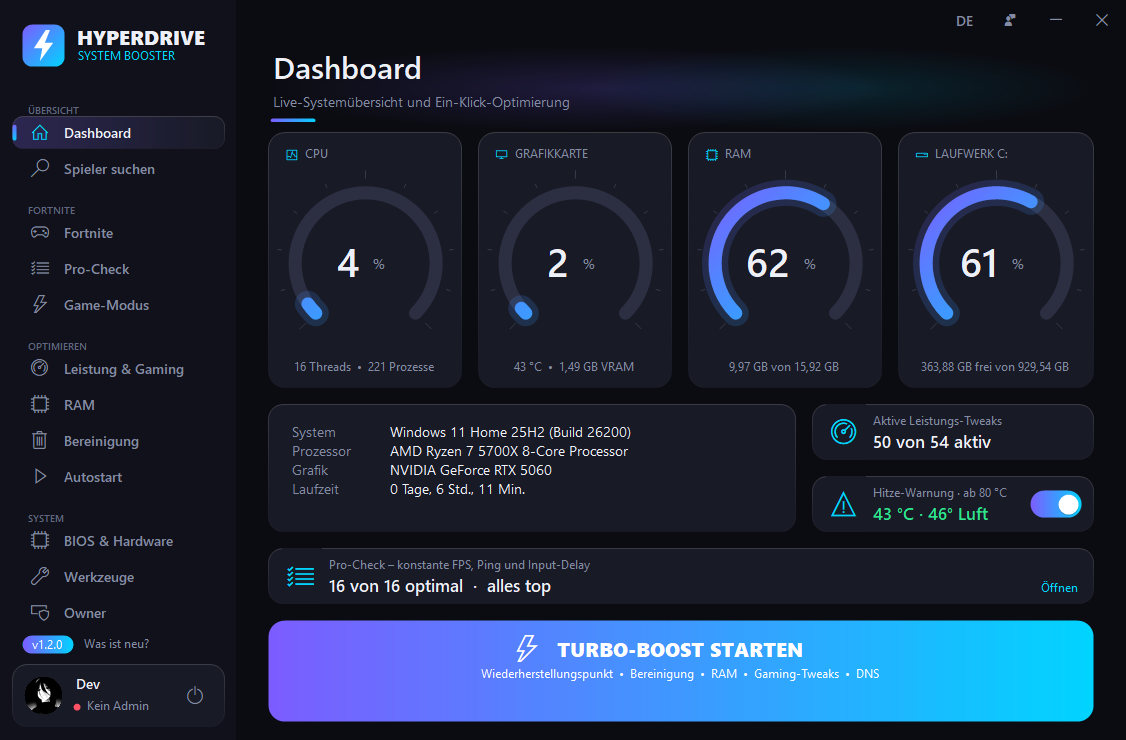
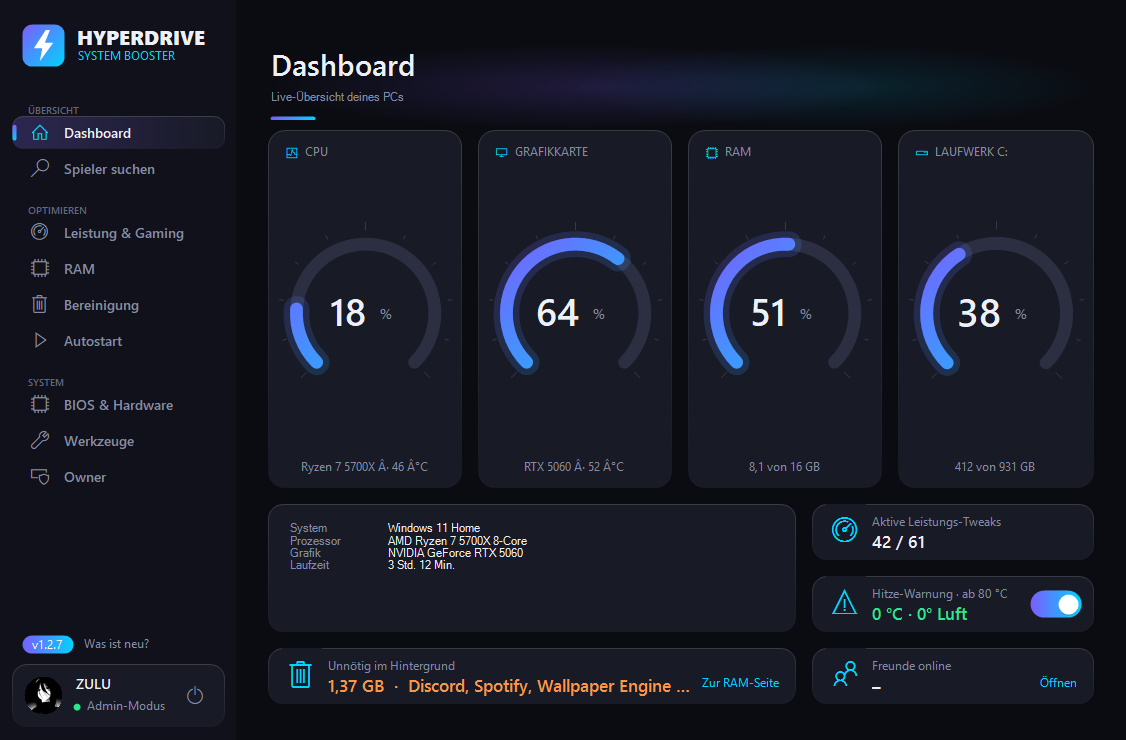
Website: für alle Spiele, neue Funktionen (RAM, Freunde, Profile), neue Screenshots, kompletter Update-Verlauf

diff --git a/index.html b/index.html
@@ -3,8 +3,8 @@
 <head>
 <meta charset="utf-8">
 <meta name="viewport" content="width=device-width, initial-scale=1">
-<title>HyperDrive – Free Fortnite FPS Boost &amp; PC Optimizer for Windows</title>
-<meta name="description" content="HyperDrive is a free Fortnite optimizer for Windows 10 and 11: more FPS, less input delay, stable ping and a faster PC in one click. Kostenloser Fortnite FPS-Boost.">
+<title>HyperDrive – Free PC Optimizer for Gaming on Windows</title>
+<meta name="description" content="HyperDrive is a free PC optimizer for gaming on Windows 10 and 11: more FPS, less input delay, free RAM in one click, friends and player search. Kostenloser PC-Optimizer für alle Spiele.">
 <meta name="robots" content="index, follow">
 <meta name="google-site-verification" content="dis3u8z4PH78nzzJIXuFJ0DUUNq3YtyWIdCxe5k1HGA">
 <meta name="theme-color" content="#0b0c12">
@@ -15,14 +15,14 @@
 <meta property="og:type" content="website">
 <meta property="og:site_name" content="HyperDrive">
 <meta property="og:url" content="https://hyperdrivefps.github.io/">
-<meta property="og:title" content="HyperDrive – Free Fortnite FPS Boost">
-<meta property="og:description" content="More FPS, less input delay and a faster PC for Fortnite. Free for Windows 10 and 11.">
+<meta property="og:title" content="HyperDrive – Free PC Optimizer for Gaming">
+<meta property="og:description" content="More FPS, less input delay and free RAM in one click – for every game. Free for Windows 10 and 11.">
 <meta property="og:image" content="https://hyperdrivefps.github.io/img/en-0.png">
 <meta property="og:locale" content="en_US">
 <meta property="og:locale:alternate" content="de_DE">
 <meta name="twitter:card" content="summary_large_image">
-<meta name="twitter:title" content="HyperDrive – Free Fortnite FPS Boost">
-<meta name="twitter:description" content="More FPS, less input delay and a faster PC for Fortnite. Free for Windows 10 and 11.">
+<meta name="twitter:title" content="HyperDrive – Free PC Optimizer for Gaming">
+<meta name="twitter:description" content="More FPS, less input delay and free RAM in one click – for every game. Free for Windows 10 and 11.">
 <meta name="twitter:image" content="https://hyperdrivefps.github.io/img/en-0.png">
 <!-- Für Google: das ist eine kostenlose Windows-App -->
 <script type="application/ld+json">
@@ -30,10 +30,10 @@
   "@context": "https://schema.org",
   "@type": "SoftwareApplication",
   "name": "HyperDrive",
-  "description": "Free Fortnite optimizer for Windows: more FPS, less input delay, stable ping and a faster PC.",
+  "description": "Free PC optimizer for gaming on Windows: more FPS, less input delay, free RAM in one click, friends and player search.",
   "url": "https://hyperdrivefps.github.io/",
   "image": "https://hyperdrivefps.github.io/img/logo-1024.png",
-  "screenshot": "https://hyperdrivefps.github.io/img/en-0.png",
+  "screenshot": "https://hyperdrivefps.github.io/img/en-12.png",
   "applicationCategory": "UtilitiesApplication",
   "operatingSystem": "Windows 10, Windows 11",
   "inLanguage": ["en", "de"],
@@ -307,8 +307,8 @@
     <span class="pill hero-in"><span data-l="en">Free for Windows 10 &amp; 11</span><span data-l="de">Kostenlos für Windows 10 &amp; 11</span></span>
     <h1 class="hero-in"><span data-l="en" class="plain">More FPS.<br></span><span data-l="de" class="plain">Mehr FPS.<br></span><span data-l="en">Less input delay.</span><span data-l="de">Weniger Input-Delay.</span></h1>
     <p class="lead hero-in">
-      <span data-l="en">HyperDrive tunes your PC for Fortnite in one click – 50+ tweaks for FPS, ping and input delay, a Pro-Check that finds what slows you down, a RAM cleaner and more.</span>
-      <span data-l="de">HyperDrive optimiert deinen PC mit einem Klick für Fortnite – über 50 Tweaks für FPS, Ping und Input-Delay, ein Pro-Check, der Bremsen findet, ein RAM-Cleaner und mehr.</span>
+      <span data-l="en">HyperDrive tunes your Windows PC for every game – 50+ tweaks for FPS, ping and input delay, a RAM page that closes background hogs in one click, friends, player search and more.</span>
+      <span data-l="de">HyperDrive macht deinen Windows-PC fit für jedes Spiel – über 50 Tweaks für FPS, Ping und Input-Delay, eine RAM-Seite, die Hintergrund-Fresser mit einem Klick schließt, Freunde, Spielersuche und mehr.</span>
     </p>
     <a class="btn big dl hero-in" href="#">
       <svg viewBox="0 0 24 24" fill="none" stroke="currentColor" stroke-width="2.4" stroke-linecap="round" stroke-linejoin="round"><path d="M12 3v12M6 10l6 6 6-6M4 21h16"/></svg>
@@ -323,7 +323,7 @@
   <div class="wrap">
     <div class="stats">
       <div class="stat reveal"><b data-count="50" data-suffix="+">0</b><span data-l="en">TWEAKS</span><span data-l="de">TWEAKS</span></div>
-      <div class="stat reveal"><b data-count="1">0</b><span data-l="en">CLICK TO BOOST</span><span data-l="de">KLICK ZUM BOOST</span></div>
+      <div class="stat reveal"><b data-count="1">0</b><span data-l="en">CLICK FOR FREE RAM</span><span data-l="de">KLICK FÜR FREIEN RAM</span></div>
       <div class="stat reveal"><b data-count="100" data-suffix="%">0</b><span data-l="en">FREE</span><span data-l="de">KOSTENLOS</span></div>
     </div>
   </div>
@@ -334,34 +334,34 @@
     <h2 class="reveal"><span data-l="en">Everything your gaming PC needs</span><span data-l="de">Alles, was dein Gaming-PC braucht</span></h2>
     <p class="sub reveal"><span data-l="en">Every change can be undone in one click – HyperDrive creates a restore point first.</span><span data-l="de">Jede Änderung lässt sich mit einem Klick rückgängig machen – vorher legt HyperDrive einen Wiederherstellungspunkt an.</span></p>
     <div class="grid">
-      <div class="card reveal"><div class="ic"><svg viewBox="0 0 24 24"><path d="M13 2 3 14h9l-1 8 10-12h-9z"/></svg></div>
-        <h3>Turbo Boost</h3>
-        <p data-l="en">One click: restore point, cleanup, RAM, gaming tweaks and DNS.</p>
-        <p data-l="de">Ein Klick: Wiederherstellungspunkt, Bereinigung, RAM, Gaming-Tweaks und DNS.</p></div>
-      <div class="card reveal"><div class="ic"><svg viewBox="0 0 24 24"><path d="M9 12l2 2 4-4"/><circle cx="12" cy="12" r="9"/></svg></div>
-        <h3>Pro-Check</h3>
-        <p data-l="en">Checks everything that matters for stable FPS, ping and input delay – and fixes it in one click.</p>
-        <p data-l="de">Prüft alles, was für konstante FPS, Ping und Input-Delay zählt – und behebt es per Klick.</p></div>
+      <div class="card reveal"><div class="ic"><svg viewBox="0 0 24 24"><path d="M4 7h16M4 12h10M4 17h7"/><path d="m16 15 4 4M20 15l-4 4"/></svg></div>
+        <h3><span data-l="en">RAM hogs gone</span><span data-l="de">RAM-Fresser weg</span></h3>
+        <p data-l="en">Spots Spotify, Discord, Wallpaper Engine &amp; co. and closes them in one click – keep the ones you need with a pin.</p>
+        <p data-l="de">Erkennt Spotify, Discord, Wallpaper Engine &amp; Co. und schließt sie mit einem Klick – was du brauchst, behältst du mit dem Pin.</p></div>
       <div class="card reveal"><div class="ic"><svg viewBox="0 0 24 24"><path d="M4 18h16M7 14l3-4 3 3 4-6"/></svg></div>
         <h3><span data-l="en">50+ tweaks</span><span data-l="de">50+ Tweaks</span></h3>
-        <p data-l="en">Sorted in tabs, with an honest rating of what each tweak really does.</p>
-        <p data-l="de">In Reitern sortiert – mit ehrlicher Einschätzung, was jeder Tweak wirklich bringt.</p></div>
-      <div class="card reveal"><div class="ic"><svg viewBox="0 0 24 24"><rect x="3" y="6" width="18" height="12" rx="3"/><path d="M8 12h3M9.5 10.5v3M15 11h.01M17 13h.01"/></svg></div>
-        <h3><span data-l="en">Fortnite presets</span><span data-l="de">Fortnite-Presets</span></h3>
-        <p data-l="en">Competitive, Balanced or Potato – the right graphics settings in seconds.</p>
-        <p data-l="de">Competitive, Balanced oder Potato – die passenden Grafik-Einstellungen in Sekunden.</p></div>
+        <p data-l="en">Power plan, services, network, GPU – sorted in tabs, with an honest rating of what each tweak really does.</p>
+        <p data-l="de">Energieplan, Dienste, Netzwerk, Grafikkarte – in Reitern sortiert, mit ehrlicher Einschätzung, was jeder Tweak bringt.</p></div>
       <div class="card reveal"><div class="ic"><svg viewBox="0 0 24 24"><rect x="4" y="7" width="16" height="10" rx="1"/><path d="M8 7V4M12 7V4M16 7V4M8 20v-3M12 20v-3M16 20v-3"/></svg></div>
-        <h3><span data-l="en">RAM cleaner</span><span data-l="de">RAM-Cleaner</span></h3>
-        <p data-l="en">Finds memory hogs, empties the standby list and cleans up automatically.</p>
-        <p data-l="de">Findet Speicherfresser, leert den Standby-Speicher und räumt automatisch auf.</p></div>
+        <h3>Auto-Cleaner</h3>
+        <p data-l="en">Empties the Windows cache automatically when RAM gets tight – starts hidden with Windows if you want.</p>
+        <p data-l="de">Leert den Windows-Cache automatisch, wenn der RAM knapp wird – startet auf Wunsch unsichtbar mit Windows.</p></div>
+      <div class="card reveal"><div class="ic"><svg viewBox="0 0 24 24"><path d="M3 6h18M8 6V4h8v2M6 6l1 14h10l1-14"/></svg></div>
+        <h3><span data-l="en">Cleanup</span><span data-l="de">Bereinigung</span></h3>
+        <p data-l="en">Finds temporary files, caches and junk and removes them safely.</p>
+        <p data-l="de">Findet temporäre Dateien, Caches und Datenmüll und entfernt sie sicher.</p></div>
+      <div class="card reveal"><div class="ic"><svg viewBox="0 0 24 24"><circle cx="9" cy="8" r="3.5"/><path d="M2.5 20a6.5 6.5 0 0 1 13 0"/><path d="M16 4.5a3.5 3.5 0 0 1 0 7M18 20a6.5 6.5 0 0 0-2.5-5.1"/></svg></div>
+        <h3><span data-l="en">Friends</span><span data-l="de">Freunde</span></h3>
+        <p data-l="en">Send friend requests, see who's online and get notified when a friend comes online.</p>
+        <p data-l="de">Freundschaftsanfragen schicken, sehen, wer online ist, und eine Meldung bekommen, wenn ein Freund online kommt.</p></div>
       <div class="card reveal"><div class="ic"><svg viewBox="0 0 24 24"><circle cx="11" cy="11" r="7"/><path d="m20 20-4-4"/></svg></div>
-        <h3><span data-l="en">Player search</span><span data-l="de">Spielersuche</span></h3>
-        <p data-l="en">Find other HyperDrive players – with profile, rank, games and best scores.</p>
-        <p data-l="de">Finde andere HyperDrive-Spieler – mit Profil, Rang, Spielen und Bestwerten.</p></div>
-      <div class="card reveal"><div class="ic"><svg viewBox="0 0 24 24"><path d="M12 19V5M5 12l7-7 7 7"/><circle cx="12" cy="12" r="10" stroke-dasharray="3 3"/></svg></div>
-        <h3><span data-l="en">Mouse test</span><span data-l="de">Maus-Test</span></h3>
-        <p data-l="en">Measures your real polling rate – so you know whether 1000 Hz really arrive.</p>
-        <p data-l="de">Misst deine echte Abfragerate – damit du weißt, ob 1000 Hz wirklich ankommen.</p></div>
+        <h3><span data-l="en">Player search &amp; profiles</span><span data-l="de">Spielersuche &amp; Profile</span></h3>
+        <p data-l="en">Profile picture and banner (animated GIFs too), status, games and ranks – find other HyperDrive players.</p>
+        <p data-l="de">Profilbild und Banner (auch als animiertes GIF), Status, Spiele und Ränge – finde andere HyperDrive-Spieler.</p></div>
+      <div class="card reveal"><div class="ic"><svg viewBox="0 0 24 24"><path d="M20.3 4.4A19.6 19.6 0 0 0 15.4 3l-.6 1.3a18 18 0 0 0-5.6 0L8.6 3a19.6 19.6 0 0 0-4.9 1.4C.6 9.1-.3 13.6.1 18.1a19.8 19.8 0 0 0 6 3l1.3-2"/></svg></div>
+        <h3>Discord</h3>
+        <p data-l="en">Shows HyperDrive in your Discord status and links your account with our server – levels, giveaways, tournaments.</p>
+        <p data-l="de">Zeigt HyperDrive in deinem Discord-Status und verbindet dein Konto mit unserem Server – Level, Giveaways, Turniere.</p></div>
       <div class="card reveal"><div class="ic"><svg viewBox="0 0 24 24"><path d="M21 12a9 9 0 1 1-3-6.7L21 8M21 3v5h-5"/></svg></div>
         <h3><span data-l="en">Automatic updates</span><span data-l="de">Automatische Updates</span></h3>
         <p data-l="en">New versions arrive by themselves – every update is digitally signed and verified before it installs.</p>
@@ -381,8 +381,9 @@
     <div class="gallery reveal">
       <div class="tabs" role="tablist">
         <button type="button" role="tab" data-shot="0" aria-selected="true">Dashboard<i></i></button>
-        <button type="button" role="tab" data-shot="13" aria-selected="false">Pro-Check<i></i></button>
-        <button type="button" role="tab" data-shot="5" aria-selected="false">Tweaks<i></i></button>
+        <button type="button" role="tab" data-shot="12" aria-selected="false">RAM<i></i></button>
+        <button type="button" role="tab" data-shot="11" aria-selected="false"><span data-l="en">Players</span><span data-l="de">Spieler</span><i></i></button>
+        <button type="button" role="tab" data-shot="10" aria-selected="false"><span data-l="en">Profile</span><span data-l="de">Profil</span><i></i></button>
       </div>
       <div class="frame"><img id="gal-img" src="img/en-0.png" alt="" width="1126" height="740" loading="lazy"></div>
       <p class="caption" id="gal-cap"></p>
@@ -434,10 +435,10 @@
         </div>
       </details>
       <details class="reveal">
-        <summary><span data-l="en">Can I get banned in Fortnite?</span><span data-l="de">Kann ich in Fortnite gebannt werden?</span></summary>
+        <summary><span data-l="en">Can I get banned in games?</span><span data-l="de">Kann ich in Spielen gebannt werden?</span></summary>
         <div class="a">
-          <p data-l="en">HyperDrive is not a cheat. It never touches the game while it's running, doesn't inject anything and doesn't modify game files. It only changes Windows settings and Fortnite's normal settings file – the same things you could change by hand.</p>
-          <p data-l="de">HyperDrive ist kein Cheat. Es greift nie ins laufende Spiel ein, injiziert nichts und verändert keine Spieldateien. Es ändert nur Windows-Einstellungen und die normale Einstellungsdatei von Fortnite – also Dinge, die du auch von Hand ändern könntest.</p>
+          <p data-l="en">No. HyperDrive is not a cheat. It never touches a game while it's running, doesn't inject anything and doesn't modify game files – games and anti-cheat are never touched. It only changes Windows settings you could also change by hand.</p>
+          <p data-l="de">Nein. HyperDrive ist kein Cheat. Es greift nie in ein laufendes Spiel ein, injiziert nichts und verändert keine Spieldateien – Spiele und Anti-Cheat werden nie angefasst. Es ändert nur Windows-Einstellungen, die du auch von Hand ändern könntest.</p>
         </div>
       </details>
       <details class="reveal">
@@ -464,15 +465,15 @@
       <details class="reveal">
         <summary><span data-l="en">Does it work with AMD and Intel too?</span><span data-l="de">Funktioniert es auch mit AMD und Intel?</span></summary>
         <div class="a">
-          <p data-l="en">Yes. The Windows, network and RAM tweaks work on every PC. The NVIDIA-specific settings only show up if you have an NVIDIA graphics card.</p>
-          <p data-l="de">Ja. Die Windows-, Netzwerk- und RAM-Tweaks funktionieren auf jedem PC. Die NVIDIA-Einstellungen erscheinen nur, wenn du eine NVIDIA-Grafikkarte hast.</p>
+          <p data-l="en">Yes. The Windows, network and RAM tweaks work on every PC and for every game. The NVIDIA-specific settings only show up if you have an NVIDIA graphics card.</p>
+          <p data-l="de">Ja. Die Windows-, Netzwerk- und RAM-Tweaks funktionieren auf jedem PC und für jedes Spiel. Die NVIDIA-Einstellungen erscheinen nur, wenn du eine NVIDIA-Grafikkarte hast.</p>
         </div>
       </details>
       <details class="reveal">
         <summary><span data-l="en">What data does HyperDrive send?</span><span data-l="de">Welche Daten sendet HyperDrive?</span></summary>
         <div class="a">
-          <p data-l="en">Your account and password stay on your PC. For the online player search, HyperDrive shares your username and public profile (rank, games, best scores) so other players can find you. Update checks only ask which version is the newest.</p>
-          <p data-l="de">Dein Konto und dein Passwort bleiben auf deinem PC. Für die Online-Spielersuche teilt HyperDrive deinen Benutzernamen und dein öffentliches Profil (Rang, Spiele, Bestwerte), damit andere Spieler dich finden. Update-Prüfungen fragen nur, welche Version die neueste ist.</p>
+          <p data-l="en">Your account and password stay on your PC. If you turn on “Show me online”, HyperDrive shares your username and public profile (display name, status, games, rank, profile picture and banner), your friends list and whether you're online. Turn it off and your profile is removed from the search. Update checks only ask which version is the newest.</p>
+          <p data-l="de">Dein Konto und dein Passwort bleiben auf deinem PC. Wenn du „Mich online zeigen“ anschaltest, teilt HyperDrive deinen Benutzernamen und dein öffentliches Profil (Anzeigename, Status, Spiele, Rang, Profilbild und Banner), deine Freundesliste und ob du online bist. Schaltest du es aus, verschwindet dein Profil aus der Suche. Update-Prüfungen fragen nur, welche Version die neueste ist.</p>
         </div>
       </details>
       <details class="reveal">
@@ -499,15 +500,15 @@
         <svg viewBox="0 0 24 24" fill="currentColor" aria-hidden="true"><path d="M20.3 4.4A19.6 19.6 0 0 0 15.4 3l-.6 1.3a18 18 0 0 0-5.6 0L8.6 3a19.6 19.6 0 0 0-4.9 1.4C.6 9.1-.3 13.6.1 18.1a19.8 19.8 0 0 0 6 3l1.3-2a12.8 12.8 0 0 1-2-1l.5-.4a14 14 0 0 0 12.2 0l.5.4c-.6.4-1.3.7-2 1l1.3 2a19.7 19.7 0 0 0 6-3c.5-5.2-.8-9.7-3.6-13.7ZM8.5 15.3c-1.2 0-2.2-1.1-2.2-2.4s1-2.4 2.2-2.4 2.2 1.1 2.2 2.4-1 2.4-2.2 2.4Zm7 0c-1.2 0-2.2-1.1-2.2-2.4s1-2.4 2.2-2.4 2.2 1.1 2.2 2.4-1 2.4-2.2 2.4Z"/></svg>
         <span data-l="en">Join the Discord</span><span data-l="de">Discord beitreten</span>
       </a>
-      <p class="sub" style="margin:22px auto 0"><span data-l="en">Ranks as roles, squad search, giveaways, tournaments and help from the team.</span><span data-l="de">Ränge als Rollen, Mitspieler-Suche, Giveaways, Turniere und Hilfe vom Team.</span></p>
+      <p class="sub" style="margin:22px auto 0"><span data-l="en">Levels, squad search, giveaways, tournaments and help from the team.</span><span data-l="de">Level, Mitspieler-Suche, Giveaways, Turniere und Hilfe vom Team.</span></p>
     </div>
   </div>
 </section>
 
 <footer>
   <div class="wrap">
-    <span data-l="en">HyperDrive • A fan project – not affiliated with Epic Games or Fortnite.</span>
-    <span data-l="de">HyperDrive • Ein Fan-Projekt – nicht mit Epic Games oder Fortnite verbunden.</span>
+    <span data-l="en">HyperDrive • Free PC optimizer for gaming – not affiliated with any game publisher.</span>
+    <span data-l="de">HyperDrive • Kostenloser PC-Optimizer fürs Gaming – mit keinem Spielehersteller verbunden.</span>
     <div class="links"><a href="#features"><span data-l="en">Features</span><span data-l="de">Funktionen</span></a><a href="#updates">Updates</a><a href="#faq">FAQ</a><a href="https://discord.gg/hRx8sk6vDd" target="_blank" rel="noopener">Discord</a></div>
   </div>
 </footer>
@@ -519,12 +520,36 @@
 
   // Update-Verlauf (wie im Changelog der App). Neuere Versionen kommen live vom Server dazu.
   const HISTORY = [
+    { v: "1.2.7",
+      de: "Spielersuche schöner: neue Profilkarte mit Status, Spielen und Online-Anzeige\nKlarere Liste: Freunde, Anfragen und wer online ist auf einen Blick",
+      en: "Nicer player search: new profile card with status, games and online indicator\nClearer list: friends, requests and who's online at a glance" },
+    { v: "1.2.6",
+      de: "Neu: Freunde – Anfragen schicken, annehmen und sehen, wer online ist\nNeu: RAM-Seite komplett neu – erkennt unnötige Programme (Spotify, Discord, Wallpaper Engine …)\nNeu: „Alle schließen“ macht RAM mit einem Klick frei, Programme mit dem Pin behalten\n„Mit Windows starten“ ist jetzt in der Auto-Cleaner-Karte",
+      en: "New: friends – send requests, accept them and see who is online\nNew: completely redesigned RAM page – spots unneeded programs (Spotify, Discord, Wallpaper Engine …)\nNew: \"Close all\" frees RAM in one click, keep programs with the pin\n\"Start with Windows\" is now in the Auto-Cleaner card" },
+    { v: "1.2.5",
+      de: "Neu: Profilbilder und Banner anderer Spieler in der Spielersuche\nNeue, übersichtliche Profil-Seite mit Fortschrittsanzeige\nHyperDrive ist jetzt für alle Spiele – Fortnite-Bereich entfernt",
+      en: "New: other players' profile pictures and banners in player search\nNew, cleaner profile page with progress bar\nHyperDrive is now for all games – Fortnite section removed" },
+    { v: "1.2.4",
+      de: "Neu: FPS-Verlauf als Grafik – vorher und nachher auf einen Blick\nZeigt, wie viel Prozent mehr FPS du seit der ersten Messung hast",
+      en: "New: FPS history chart – before and after at a glance\nShows how many percent more FPS you have since your first measurement" },
+    { v: "1.2.3",
+      de: "Neu: Discord-Server – Knopf oben rechts\nNeu: Rang mit Discord verbinden (Profil)\nDiscord zeigt, dass du HyperDrive nutzt\nRänge werden automatisch zur Discord-Rolle",
+      en: "New: Discord server – button at the top right\nNew: link your rank with Discord (profile)\nDiscord shows that you're using HyperDrive\nRanks automatically become Discord roles" },
+    { v: "1.2.2",
+      de: "Neu: Ränge – TESTER, VIP, PRO, LEGEND und mehr\nRänge erscheinen in Spielersuche und Profil",
+      en: "New: ranks – TESTER, VIP, PRO, LEGEND and more\nRanks show up in player search and profiles" },
+    { v: "1.2.1",
+      de: "Neues App-Icon mit leuchtendem Blitz",
+      en: "New app icon with a glowing lightning bolt" },
+    { v: "1.2.0",
+      de: "Neu: HyperDrive auf Englisch – Sprache oben rechts umschalten\nNeue Website mit FAQ, Screenshots und Update-Verlauf\nNeu: Feedback-Knopf oben rechts\nFehler werden automatisch gemeldet\nDeinstallieren nimmt alle Änderungen zurück\nNeu: Nachrichten vom Entwickler",
+      en: "New: HyperDrive in English – switch language at the top right\nNew website with FAQ, screenshots and update history\nNew: feedback button at the top right\nErrors are reported automatically\nUninstalling reverts all changes\nNew: messages from the developer" },
     { v: "1.1.1",
       de: "Neu: eigener RAM-Reiter bei den Tweaks\nNeu: Schnellstart aus – frischer RAM\nNeu: Browser geben RAM beim Schließen frei\nNeu: Edge-Tabs schlafen nach 5 Minuten\nPro-Check prüft die Auslagerungsdatei\nRAM-Seite: Knopf zu den RAM-Tweaks",
       en: "New: own RAM tab for tweaks\nNew: fast startup off – fresh RAM\nNew: browsers free RAM when closed\nNew: Edge tabs sleep after 5 minutes\nPro-Check checks the page file\nRAM page: button to the RAM tweaks" },
     { v: "1.1.0",
       de: "Neu: Pro-Check für FPS, Ping & Input-Delay\nNeu: Maus-Test misst die Abfragerate\n„Alles beheben“ löst Probleme per Klick\nTweaks in Reitern mit Zählern sortiert\nKein Protokoll mehr – kurze Meldungen\nMehr Platz für Listen und Anzeigen",
-      en: "New: Pro-Check for FPS, ping & input delay\nNew: mouse test measures the polling rate\n“Fix everything” solves problems in one click\nTweaks sorted in tabs with counters\nNo more log – short messages instead\nMore room for lists and gauges" },
+      en: "New: Pro-Check for FPS, ping & input delay\nNew: mouse test measures the polling rate\n\"Fix everything\" solves problems in one click\nTweaks sorted in tabs with counters\nNo more log – short messages instead\nMore room for lists and gauges" },
     { v: "1.0.3",
       de: "Ehrliche Wirkung bei jedem Tweak\nWichtiges zuerst, Unnötiges ausgegraut\nNeu: volle Monitor-Hz, Shader-Cache behalten\nNeu: Updates bremsen, schonender Virenscan\nTweak-Prüfung deutlich schneller",
       en: "Honest impact rating for every tweak\nImportant first, unneeded greyed out\nNew: full monitor Hz, keep shader cache\nNew: throttle updates, gentler virus scan\nTweak check much faster" },
@@ -533,16 +558,17 @@
       en: "Animated what's-new window with confetti\nUpdate windows fade in smoothly" },
     { v: "1.0.1",
       de: "Version unten links – Klick zeigt alle Neuerungen\n„Was ist neu?“-Fenster nach jedem Update\nNeue Download-Website: hyperdrivefps.github.io\nWebsite mit Animationen",
-      en: "Version at the bottom left – click shows all changes\n“What's new?” window after every update\nNew download website: hyperdrivefps.github.io\nAnimated website" },
+      en: "Version at the bottom left – click shows all changes\n\"What's new?\" window after every update\nNew download website: hyperdrivefps.github.io\nAnimated website" },
     { v: "1.0.0",
       de: "Installation als App (Startmenü & Desktop)\nAutomatische, signierte Updates\nOnline-Spielersuche mit OWNER/USER-Rang",
       en: "Install as an app (Start menu & desktop)\nAutomatic, signed updates\nOnline player search with OWNER/USER rank" }
   ];
   const NOTES_SPLIT = "\n\nEnglish:\n";
   const SHOTS = {
-    "0":  { en: "Dashboard – live CPU, GPU, RAM and drive gauges plus Turbo Boost.", de: "Dashboard – CPU, GPU, RAM und Laufwerke live, dazu der Turbo-Boost." },
-    "13": { en: "Pro-Check – finds what costs you FPS, ping or input delay and fixes it.", de: "Pro-Check – findet, was dich FPS, Ping oder Input-Delay kostet, und behebt es." },
-    "5":  { en: "Tweaks – sorted in tabs, each with an honest impact rating.", de: "Tweaks – in Reitern sortiert, jeder mit ehrlicher Einschätzung." }
+    "0":  { en: "Dashboard – CPU, GPU, RAM and drive live, plus what's running needlessly in the background.", de: "Dashboard – CPU, Grafikkarte, RAM und Laufwerk live, dazu was unnötig im Hintergrund läuft." },
+    "12": { en: "RAM – see the hogs and free gigabytes in one click; keep what you need with a pin.", de: "RAM – Speicherfresser sehen und mit einem Klick Gigabytes frei machen; was du brauchst, bleibt per Pin." },
+    "11": { en: "Player search – find players, add friends and see who's online.", de: "Spielersuche – Spieler finden, Freunde hinzufügen und sehen, wer online ist." },
+    "10": { en: "Profile – picture and banner (GIFs too), status, games and color.", de: "Profil – Bild und Banner (auch GIFs), Status, Spiele und Farbe." }
   };
   const ALT = { en: "The HyperDrive app", de: "Die HyperDrive-App" };
 
@@ -556,7 +582,7 @@
   function render() {
     const de = lang === "de";
     document.documentElement.lang = lang;
-    document.title = de ? "HyperDrive – Kostenloser Fortnite FPS-Boost & PC-Optimizer für Windows" : "HyperDrive – Free Fortnite FPS Boost & PC Optimizer for Windows";
+    document.title = de ? "HyperDrive – Kostenloser PC-Optimizer fürs Gaming unter Windows" : "HyperDrive – Free PC Optimizer for Gaming on Windows";
     document.querySelectorAll(".lang button").forEach(b => b.setAttribute("aria-pressed", b.dataset.set === lang));
     $("hero-img").src = "img/" + lang + "-0.png";
     $("hero-img").alt = ALT[lang];
@@ -606,13 +632,13 @@
   }));
   document.querySelectorAll(".tabs button").forEach(b => b.addEventListener("click", () => { setShot(b.dataset.shot, true); galT = 0; }));
   $("more").addEventListener("click", () => { showAll = !showAll; render(); });
-  ["en", "de"].forEach(l => ["0", "13", "5"].forEach(i => { if (l !== lang || i !== "0") new Image().src = "img/" + l + "-" + i + ".png"; }));
+  ["en", "de"].forEach(l => ["0", "12", "11", "10"].forEach(i => { if (l !== lang || i !== "0") new Image().src = "img/" + l + "-" + i + ".png"; }));
 
   render();
   fetch(DOWNLOAD + "?info").then(r => r.json()).then(info => { latest = info; render(); }).catch(() => {});
 
   // Galerie wechselt alle 5 Sekunden von selbst (sobald sie zu sehen ist)
-  const ORDER = ["0", "13", "5"], GAL_MS = 5000;
+  const ORDER = ["0", "12", "11", "10"], GAL_MS = 5000;
   let galT = 0, galLast = 0, galSeen = false;
   new IntersectionObserver(es => es.forEach(e => galSeen = e.isIntersecting), { threshold: .3 }).observe($("gal-img"));
   function galTick(now) {
